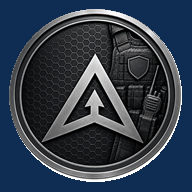
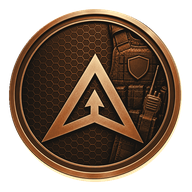
feat(brand): atualizar emblema, ícones e social para âmbar e areia

diff --git a/tests/branding.test.ts b/tests/branding.test.ts
@@ -53,3 +53,18 @@ test("PWA service worker cannot cache PDFs, orders or admin routes",()=>{
  assert.ok(!js.includes("cache.put(req"));
  assert.match(js,/try\{return await fetchFresh\}catch/);
 });
+test("amber logo preserves original source privately and regenerates all sharing assets",()=>{
+ const source=join(root,"assets","brand","logo-atp-original.png");
+ assert.ok(existsSync(source),"the original emblem must remain recoverable");
+ assert.ok(!existsSync(file("brand/logo-atp-original.png")),"the original should not be publicly exposed");
+ assert.notDeepEqual(readFileSync(source),readFileSync(file("brand/logo-atp.png")),"the premium logo should be recolored");
+ const manifest=JSON.parse(readFileSync(file("manifest.webmanifest"),"utf8"));
+ assert.equal(manifest.theme_color,"#171512");
+ assert.equal(manifest.background_color,"#F8F3EA");
+ const workerScript=readFileSync(file("sw.js"),"utf8");
+ assert.match(workerScript,/atpcursos-public-amber-v2/,"service worker must expire old logo cache");
+ for(const path of ["brand/logo-atp.png","brand/favicon-16.png","brand/favicon-32.png","brand/favicon-48.png","brand/icon-192.png","brand/icon-512.png","brand/icon-512-maskable.png"]){
+  const image=readFileSync(file(path));
+  assert.equal(image.subarray(1,4).toString("ascii"),"PNG");
+ }
+});

diff --git a/public/sw.js b/public/sw.js
@@ -1,5 +1,5 @@
 /* ATPCursos PWA: cache ONLY the public shell and brand assets. Never cache orders, admin, customer accounts, PDFs, API, checkout, or download tokens. */
-const VERSION="atpcursos-public-v1";
+const VERSION="atpcursos-public-amber-v2";
 const SHELL=["/loja","/app.js","/manifest.webmanifest","/brand/logo-atp.png","/brand/icon-192.png","/brand/icon-512.png"];
 const isPublicAsset=p=>p==="/app.js"||p==="/manifest.webmanifest"||p.startsWith("/brand/");
 self.addEventListener("install",event=>{

diff --git a/tools/build-amber-brand.py b/tools/build-amber-brand.py
@@ -1,0 +1,101 @@
+"""ATPCursos brand asset generator, preserving the original emblem geometry.
+
+Requires Pillow >=12. Run from repository root:
+    python tools/build-amber-brand.py
+
+Input: public/brand/logo-atp-original.png (untouched approved emblem).
+Output: transparent logo, favicons, PWA icons, social preview.
+"""
+from pathlib import Path
+from PIL import Image, ImageDraw, ImageFont, ImageOps
+import math
+
+ROOT = Path(__file__).resolve().parents[1]
+BRAND = ROOT / "public" / "brand"
+SOURCE = ROOT / "assets" / "brand" / "logo-atp-original.png"
+if not SOURCE.exists():
+    raise SystemExit("Missing original logo source: " + str(SOURCE))
+
+def C(hexcode: str):
+    s = hexcode.lstrip("#")
+    return tuple(int(s[i:i+2], 16) for i in (0, 2, 4))
+
+COAL = C("#171512")
+COAL_SOFT = C("#28221C")
+AMBER = C("#EE701E")
+SAND = C("#F2C98D")
+OAT = C("#F8F3EA")
+CREAM = C("#FFFDF9")
+
+original = Image.open(SOURCE).convert("RGBA")
+if original.size != (512, 512):
+    raise SystemExit("Unexpected original logo dimensions: " + str(original.size))
+
+# Apply a warm metallic scale to the existing grayscale emblem.
+# The darkest recesses remain black, medium highlights shift to amber,
+# and upper specular highlights become sand. Keep the original alpha mask.
+gray = ImageOps.grayscale(original)
+tinted = ImageOps.colorize(gray, black=COAL, mid=C("#A65320"),
+                           white=C("#FFE4AD"), blackpoint=10,
+                           whitepoint=245, midpoint=120)
+# Blend lightly to preserve the embossed detail of the official symbol.
+detail = Image.blend(original.convert("RGB"), tinted, 0.91)
+logo = detail.convert("RGBA")
+logo.putalpha(original.getchannel("A"))
+logo.save(BRAND / "logo-atp.png", optimize=True)
+
+def centered_icon(size: int, visual_ratio: float, bg=None):
+    if bg is None:
+        canvas = Image.new("RGBA", (size, size), (0, 0, 0, 0))
+    else:
+        canvas = Image.new("RGBA", (size, size), bg + (255,))
+    visual = max(1, round(size * visual_ratio))
+    mark = logo.resize((visual, visual), Image.Resampling.LANCZOS)
+    canvas.alpha_composite(mark, ((size - visual)//2, (size - visual)//2))
+    return canvas
+
+for size in (16, 32, 48):
+    centered_icon(size, 0.91).save(BRAND / f"favicon-{size}.png", optimize=True)
+centered_icon(180, 0.82, COAL).save(BRAND / "apple-touch-icon.png", optimize=True)
+centered_icon(192, 0.92).save(BRAND / "icon-192.png", optimize=True)
+centered_icon(512, 0.92).save(BRAND / "icon-512.png", optimize=True)
+# Maskable icon keeps critical content in the middle 70% safe zone.
+centered_icon(512, 0.64, COAL).save(BRAND / "icon-512-maskable.png", optimize=True)
+centered_icon(96, 0.91).save(BRAND / "favicon.ico", format="ICO", sizes=[(16,16),(32,32),(48,48),(64,64)])
+
+# Social preview, warm duotone, with large readable type and the real emblem.
+w, h = 1200, 630
+og = Image.new("RGB", (w, h), COAL)
+d = ImageDraw.Draw(og)
+for x in range(w):
+    t = x / (w - 1)
+    # In the right half, the coal backdrop warms subtly toward dark umber.
+    boost = max(0, (t-0.4)/0.6)
+    col = tuple(round(COAL[i] * (1 - 0.50*boost) + C("#4B2D1F")[i] * .50*boost) for i in range(3))
+    d.line((x, 0, x, h), fill=col)
+d.rectangle((0, 0, 12, h), fill=AMBER)
+d.rounded_rectangle((55, 67, 238, 112), radius=20, fill=C("#3C2C21"), outline=C("#6A4C2E"), width=2)
+
+def font(size, bold=False):
+    candidates = (["C:/Windows/Fonts/seguisb.ttf","C:/Windows/Fonts/arialbd.ttf"] if bold
+                  else ["C:/Windows/Fonts/segoeui.ttf","C:/Windows/Fonts/arial.ttf"])
+    for c in candidates:
+        if Path(c).exists():
+            return ImageFont.truetype(c, size)
+    return ImageFont.load_default()
+
+d.text((82, 75), "ESTUDE COM DIREÇÃO", fill=SAND, font=font(18, True))
+d.text((56, 171), "ATPCursos", font=font(78, True), fill=CREAM,
+       stroke_width=0)
+d.text((58, 277), "PDFs para concursos", font=font(46, True), fill=SAND)
+d.text((59, 352), "Simulados, mapas mentais e cronogramas", font=font(26), fill=OAT)
+d.text((59, 398), "Materiais digitais organizados em um só lugar.", font=font(23), fill=C("#C9BDAA"))
+d.rounded_rectangle((58, 492, 412, 566), radius=16, fill=AMBER)
+d.text((88, 506), "EXPLORE A BIBLIOTECA", font=font(23, True), fill=COAL)
+orb = logo.resize((442, 442), Image.Resampling.LANCZOS)
+overlay = Image.new("RGBA", (w, h), (0,0,0,0))
+overlay.alpha_composite(orb, (728, 91))
+og = Image.alpha_composite(og.convert("RGBA"), overlay).convert("RGB")
+og.save(BRAND / "og-atpcursos.jpg", quality=89, optimize=True, subsampling=0)
+
+print("ATP_AMBER_BRAND_READY", len(list(BRAND.glob("*.png"))), "png files")
